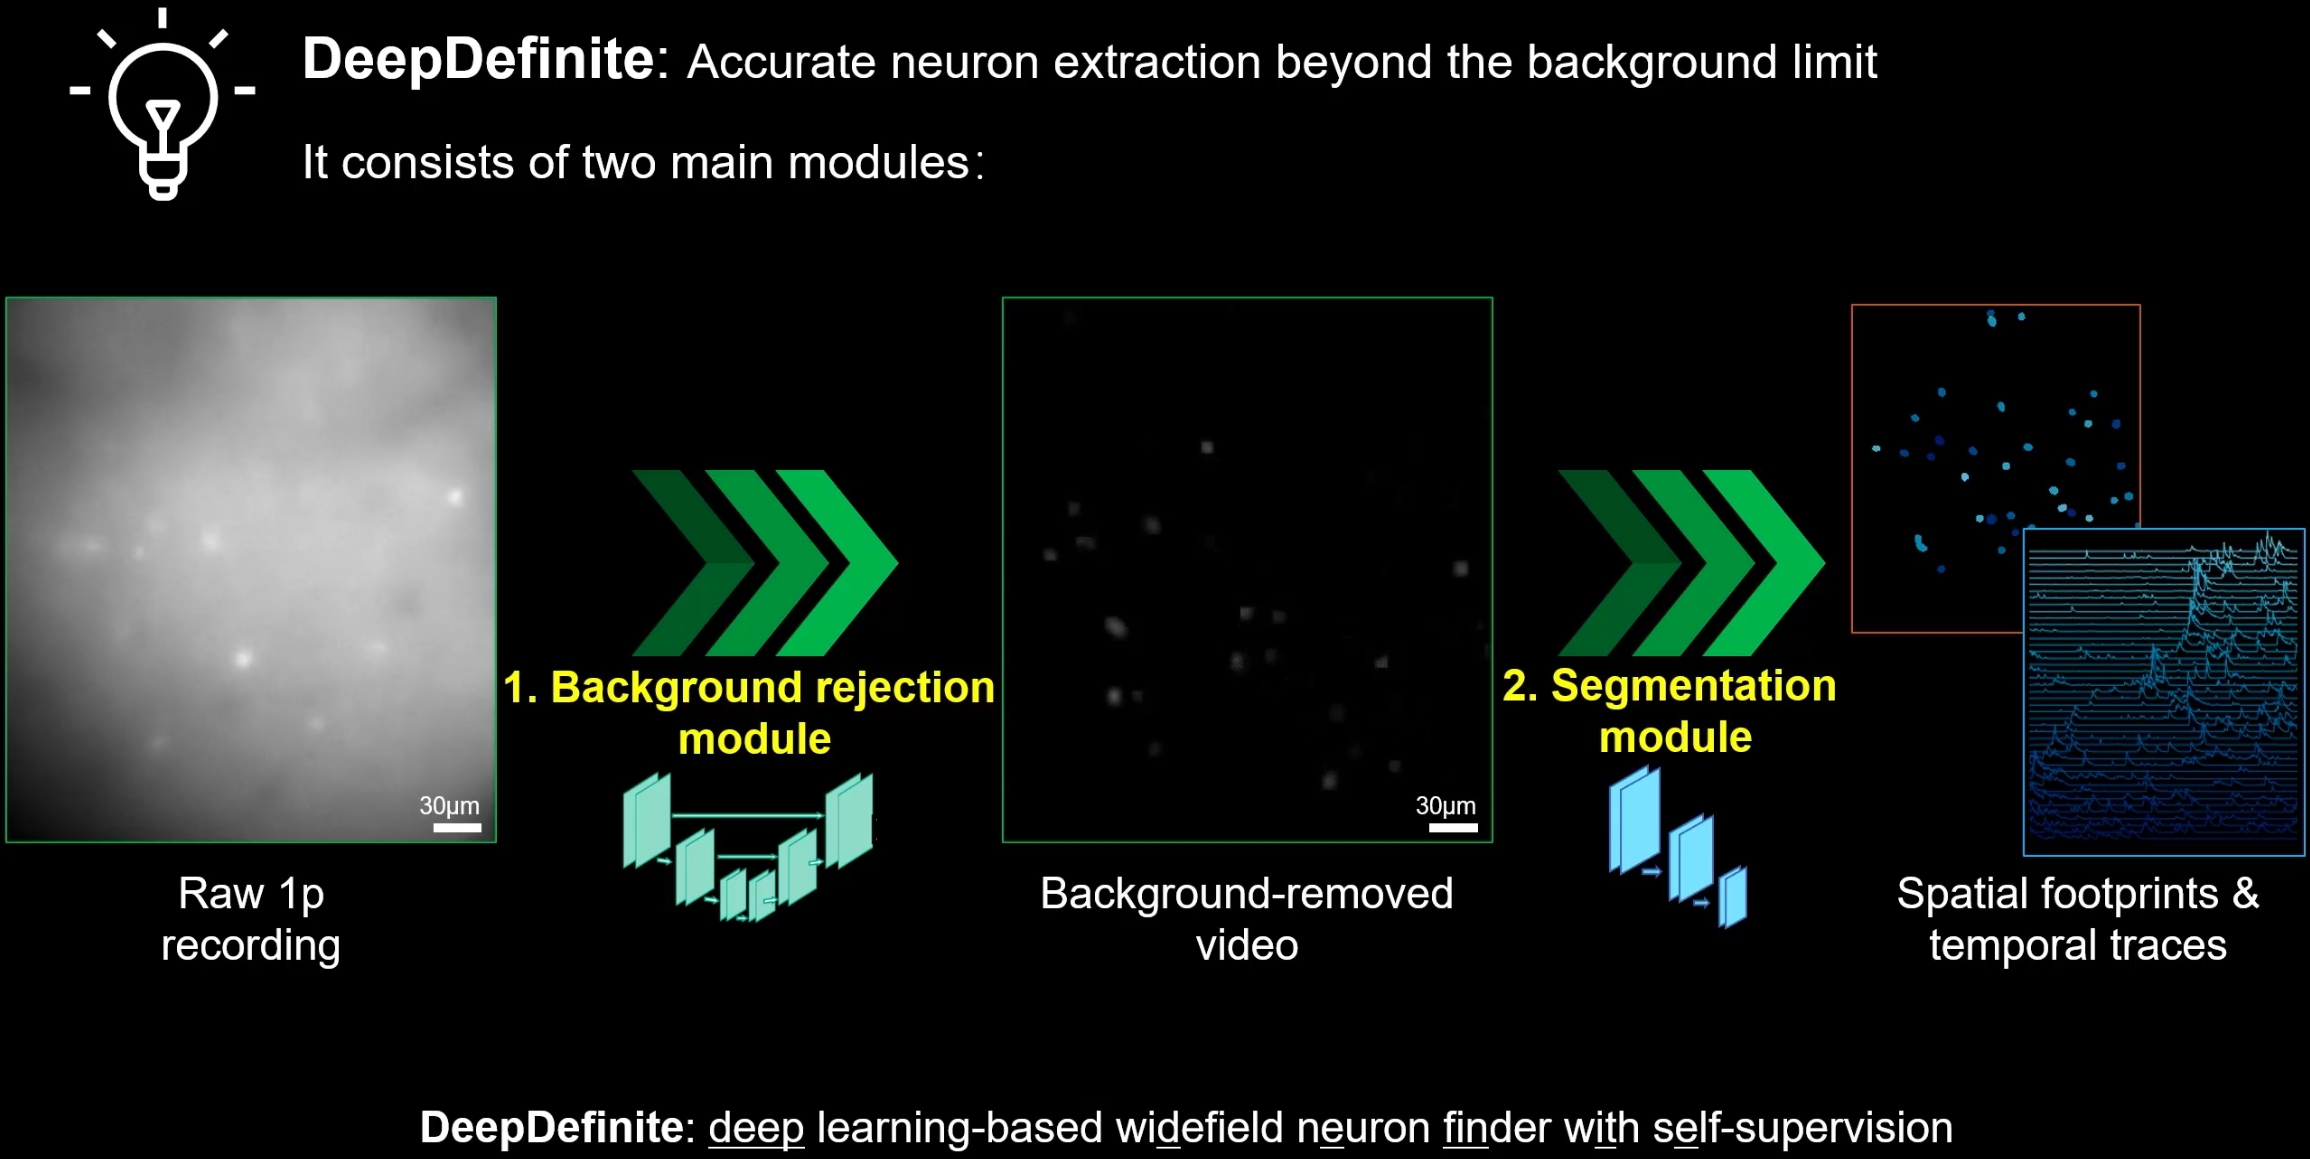
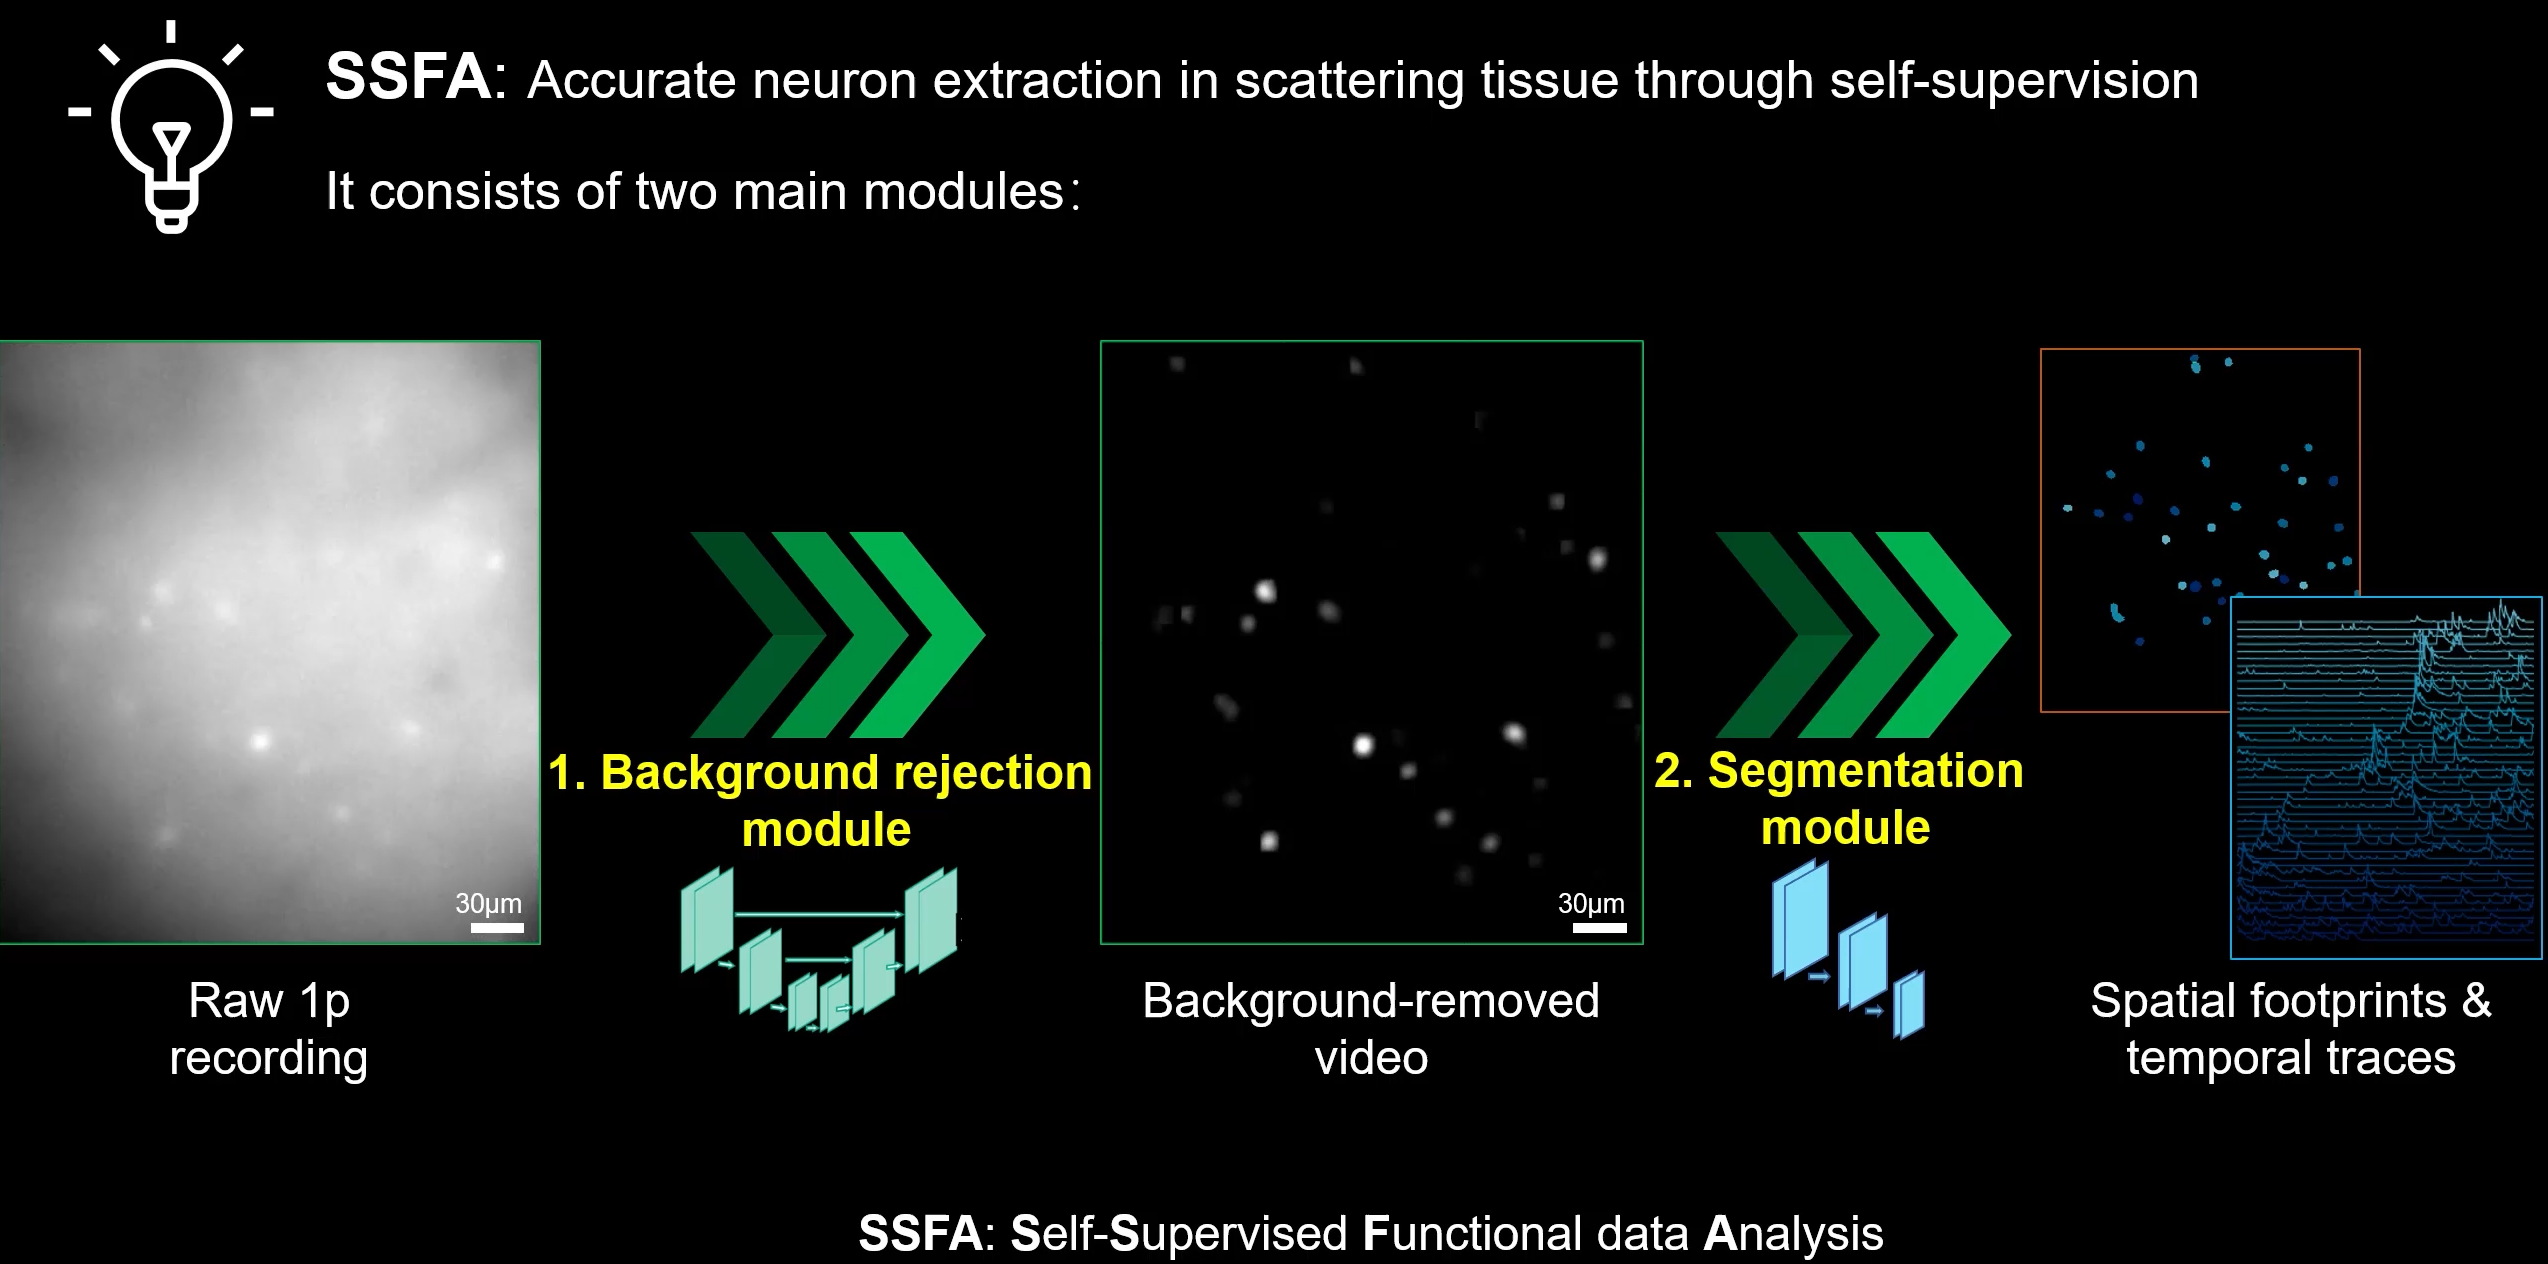
Update README with refreshed branding and figures

diff --git a/README.md b/README.md
@@ -1,11 +1,15 @@
 # SSFA
 
+![SSFA logo](readme_figs/SSFA_logo_long.png)
+
 SSFA stands for **Self-Supervised Functional Analysis**.
 
 SSFA is a self-supervised pipeline for neuron extraction on single-photon (1p) calcium videos. The repository contains:
 - Original BG rejection + segmentation scripts in `codes/`
 - A Hydra orchestration layer in `src/` and `configs/`
 - A Gradio web UI in `webapp/`
+
+![video sample](readme_figs/video_sample_1_wo_opening.gif)
 
 ![pipeline](readme_figs/pipeline.png)
 
